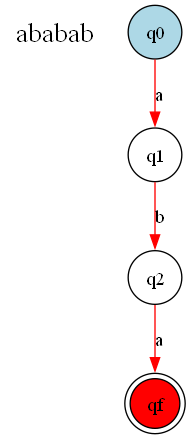
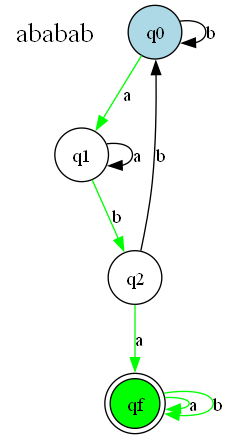
Fix transitions for DFA

diff --git a/templates/index.html b/templates/index.html
@@ -309,7 +309,7 @@
                   type="text"
                   class="form-control"
                   name="transitions"
-                  value="q0, a, q1; q1, b, q2; q2, a, qf"
+                  value="q0, a, q1; q0, b, q0; q1, a, q1; q1, b, q2; q2, a, qf; q2, b, q0; qf, a, qf; qf, b, qf"
                 />
               </div>
               <br />
